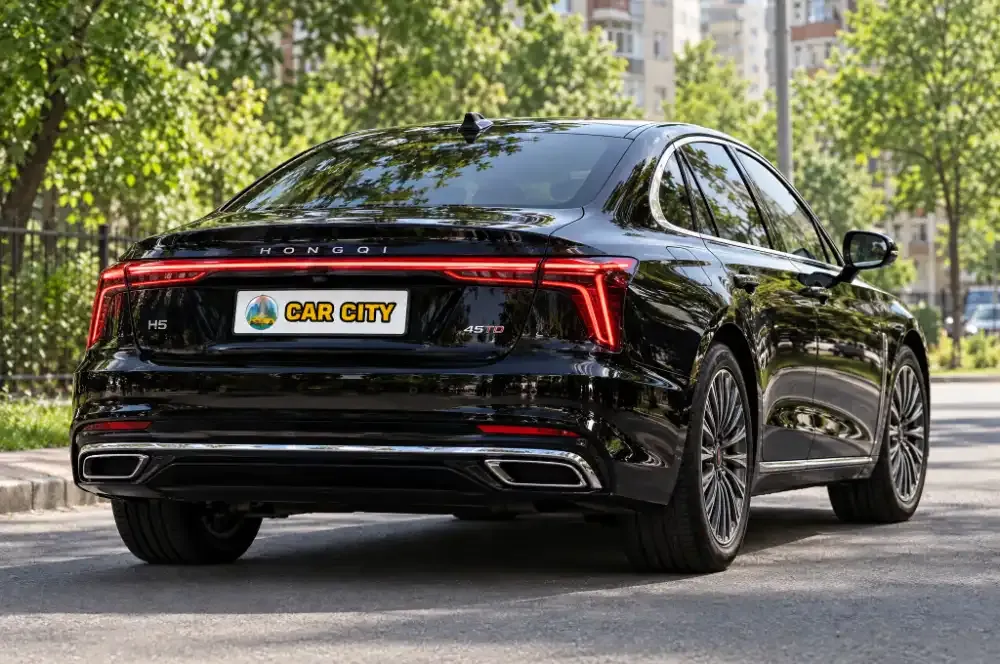
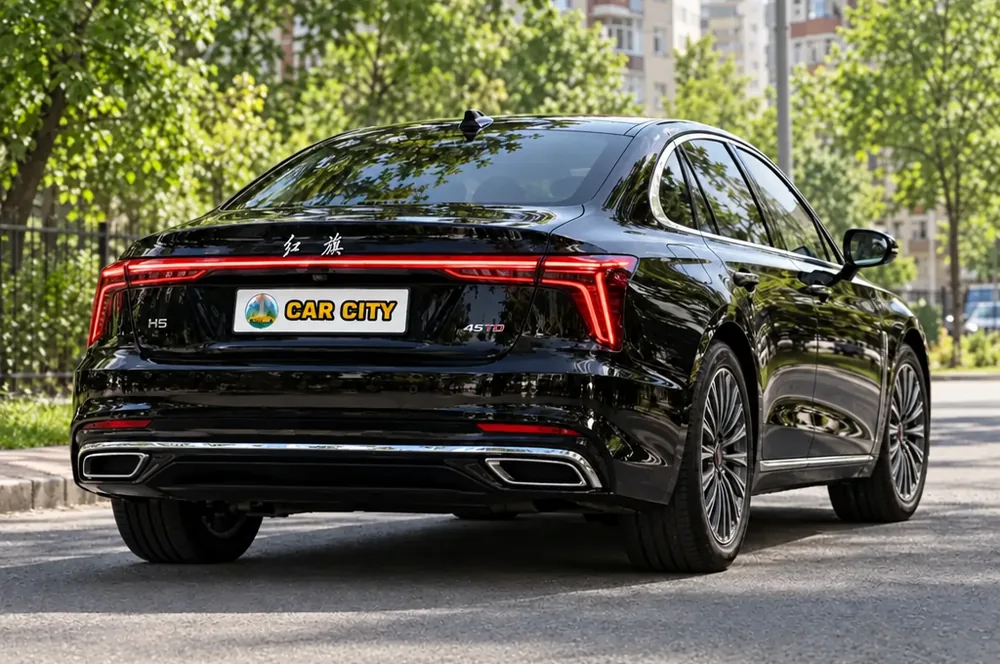
Фото салона у 28 машин (по реальным салонам), Hongqi H5 сзади с 红旗, фотореалистичный фургон в роадмапе
Claude-Session: https://claude.ai/code/session_012hEQvrcASm612a7MmWHth9

diff --git a/apps/site/components/page/ModelStage.tsx b/apps/site/components/page/ModelStage.tsx
@@ -4,19 +4,21 @@ import { useState } from "react";
 import { CarArt } from "../CarArt";
 import { carImages } from "@/lib/car-images";
 import { asset } from "@/lib/i18n";
+import { carInteriors } from "@/lib/car-interiors";
 
 // Сцена модели: подиум со световым кольцом. Главный кадр — фото парка из каталога,
-// следом три уличных фото той же машины: спереди, сзади и сбоку.
+// следом уличные фото той же машины: спереди, сзади, сбоку и салон через открытую водительскую дверь.
 const SHOTS = [
   { key: "front", label: "Спереди" },
   { key: "rear", label: "Сзади" },
   { key: "side", label: "Сбоку" },
+  { key: "interior", label: "Салон" },
 ] as const;
 
 export function ModelStage({ name, slug }: { name: string; slug: string }) {
   const own = !!carImages[slug];
   const [cur, setCur] = useState(-1); // -1 главное фото, 0..2 уличные
-  const pics = own ? SHOTS.map((s) => ({ ...s, big: asset(`/cars/${slug}-${s.key}-1000.webp`), thumb: asset(`/cars/${slug}-${s.key}-480.webp`) })) : [];
+  const pics = own ? SHOTS.filter((s) => s.key !== "interior" || carInteriors.has(slug)).map((s) => ({ ...s, big: asset(`/cars/${slug}-${s.key}-1000.webp`), thumb: asset(`/cars/${slug}-${s.key}-480.webp`) })) : [];
   return (
     <div className="mdl-stage" data-reveal>
       <div className="mdl-ring" aria-hidden="true"><i /><i /><i /></div>

diff --git a/apps/site/lib/car-interiors.ts b/apps/site/lib/car-interiors.ts
@@ -1,0 +1,3 @@
+// Машины, у которых есть фото салона (public/cars/<slug>-interior-*.webp): сгенерированы по реальным фото салонов
+// наших машин со старого сайта, а для остальных — по фото производителей и Wikimedia Commons.
+export const carInteriors = new Set<string>(["belgee-x50", "belgee-x70", "chery-tiggo-4", "chery-tiggo-4-pro", "chery-tiggo-7-pro", "chery-tiggo-7-pro-max", "exeed-lx-2023", "geely-atlas-pro", "geely-emgrand", "haval-f7", "hongqi-h5", "hyundai-sonata", "jac-j7", "kia-k5", "kia-rio-1.4", "kia-rio-1.6", "lada-granta", "lada-largus", "moskvich-3", "omoda-s-5", "skoda-rapid-1.6", "sollers-argo", "sollers-atlant-19-td", "sollers-atlant-l3h2-2-7d", "sollers-atlant-sf4-l4", "tenet-t7", "volkswagen-polo-1.6", "voyah-dream"]);
